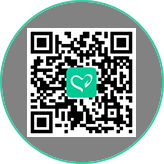
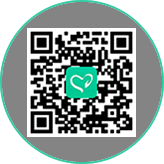
download

Changed region(s): [[0.1829, 0.1829, 0.8232, 0.8232]]

diff --git a/frontend/views/site/index.php b/frontend/views/site/index.php
@@ -10,7 +10,7 @@ $this->title = '优爱医护-您的贴身的护理专家';
             <h2 class="slogan">专注 便捷 省心</h2>
         </div>
         <div class="download">
-            <img class="qr" src="/images/index/qr-app.png" alt="二维码" />
+            <img class="qr" src="/images/index/qr-app.png" alt="二维码" width="142" />
             <a class="appstore" href="#">App Store</a>
             <a class="android" href="#">Android</a>
         </div>

diff --git a/frontend/controllers/DownloadController.php b/frontend/controllers/DownloadController.php
@@ -13,8 +13,6 @@ use yii\web\Controller;
 
 class DownloadController extends Controller{
     public function actionIndex(){
-        echo ($_SERVER['HTTP_USER_AGENT']);
-        exit;
         $userAgent = strtolower($_SERVER['HTTP_USER_AGENT']);
         if ((preg_match("/(iphone|ipod|android)/i", $userAgent)) AND strstr($userAgent, 'webkit')){
             header('Location: http://m.youaiyihu.com/download.html');
